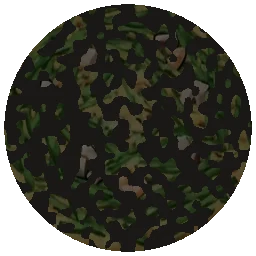
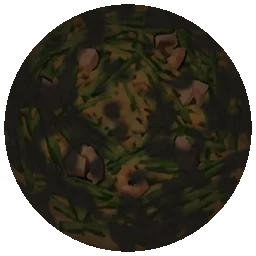
Use provided jeon images for all jeon rendering, 6-piece cut
Claude-Session: https://claude.ai/code/session_01Vdys7kjPUwJ24VZrvgtwsQ

diff --git a/jeon-game/jeon-steps.html b/jeon-game/jeon-steps.html
@@ -84,7 +84,7 @@ const DIPS = [
 ];
 /* 사진에서 오려 낸 재료 이미지와 부엌 배경 (assets 폴더) */
 const IMG = {};
-['kitchen', ...FRIDGE.flatMap(k => ['ing_' + k, 'pc_' + k])].forEach(n => { const i = new Image(); i.src = 'assets/' + n + '.webp'; IMG[n] = i; });
+['kitchen', 'top_hobak', ...FRIDGE.flatMap(k => ['ing_' + k, 'pc_' + k]), ...['kimchi', 'haemul', 'buchu', 'gamja'].flatMap(t => ['top_' + t, 1, 2, 3, 4, 5].map((n, i) => i ? `st_${t}_${n}` : n))].forEach(n => { const i = new Image(); i.src = 'assets/' + n + '.webp'; IMG[n] = i; });
 const okImg = n => IMG[n] && IMG[n].complete && IMG[n].naturalWidth > 0;
 const PW = { kimchi: 30, buchu: 26, zucchini: 24, potato: 20, squid: 22, onion: 26, carrot: 13, pepper: 26 };
 const STAGES = ['재료 고르기', '손질하기', '반죽 만들기', '굽기', '담기', '저녁 식탁'];
@@ -490,7 +490,52 @@ function tintColor(col, items) {
   w *= clamp(bright * 1.5, 0, 1);
   return `rgb(${m.map((v, i) => Math.round(lerp(v, t[i], w))).join(',')})`;
 }
+function jeonType(items) {
+  if (items.includes('kimchi')) return 'kimchi';
+  if (items.includes('squid')) return 'haemul';
+  if (items.includes('buchu')) return 'buchu';
+  if (items.includes('potato')) return 'gamja';
+  if (items.includes('zucchini')) return 'hobak';
+  return 'haemul';
+}
+function jeonStage(topV, edgeV) {
+  if (topV < 5) return edgeV < 30 ? 1 : 2;          // 뒤집기 전: 날반죽 → 테두리 익음
+  if (topV > 95 || edgeV > 95) return 5;            // 탐
+  return edgeV < 50 ? 3 : 4;                        // 뒤집은 뒤: 중간 → 노릇 완숙
+}
+function drawJeonImg(x, y, R, jeon, topV, edgeV, sy, slices) {
+  const t = jeonType(jeon.items), st = jeonStage(topV, edgeV);
+  ctx.save(); ctx.translate(x, y); ctx.scale(1, sy);
+  ctx.fillStyle = 'rgba(0,0,0,0.25)'; ctx.beginPath(); ctx.ellipse(3, 6, R, R, 0, 0, 6.283); ctx.fill();
+  if (t === 'hobak') {
+    if (!okImg('top_hobak')) { ctx.restore(); return false; }
+    const pos = [[0, 0], ...Array.from({ length: 7 }, (_, i) => [Math.cos(i / 7 * 6.283) * 0.62, Math.sin(i / 7 * 6.283) * 0.62])];
+    pos.forEach(([px, py]) => {
+      ctx.drawImage(IMG.top_hobak, px * R - R * 0.33, py * R - R * 0.33, R * 0.66, R * 0.66);
+      if (st !== 4 && st !== 3) { ctx.fillStyle = st === 5 ? 'rgba(25,20,15,0.72)' : 'rgba(240,225,200,0.45)'; ctx.beginPath(); ctx.arc(px * R, py * R, R * 0.31, 0, 6.283); ctx.fill(); }
+    });
+    ctx.restore(); return true;
+  }
+  const name = st === 4 ? 'top_' + t : `st_${t}_${st}`;
+  if (!okImg(name)) { ctx.restore(); return false; }
+  const im = IMG[name];
+  if (slices) {
+    const n = slices, gap = R * 0.035;
+    for (let i = 0; i < n; i++) {
+      const a0 = i / n * 6.283, a1 = (i + 1) / n * 6.283, am = (a0 + a1) / 2;
+      ctx.save(); ctx.translate(Math.cos(am) * gap, Math.sin(am) * gap);
+      ctx.beginPath(); ctx.moveTo(0, 0); ctx.arc(0, 0, R, a0, a1); ctx.closePath(); ctx.save(); ctx.clip();
+      ctx.drawImage(im, -R, -R, R * 2, R * 2); ctx.restore();
+      ctx.strokeStyle = '#1e140c'; ctx.lineWidth = 2; ctx.stroke(); ctx.restore();
+    }
+  } else {
+    ctx.drawImage(im, -R, -R, R * 2, R * 2);
+    ctx.strokeStyle = 'rgba(30,20,12,0.85)'; ctx.lineWidth = 2; ctx.beginPath(); ctx.arc(0, 0, R * 0.965, 0, 6.283); ctx.stroke();
+  }
+  ctx.restore(); return true;
+}
 function drawJeon(x, y, R, jeon, topV, edgeV, sy = 1, slices = 0) {
+  if (drawJeonImg(x, y, R, jeon, topV, edgeV, sy, slices)) return;
   ctx.save(); ctx.translate(x, y); ctx.scale(1, sy);
   const it = jeon.items;
   // 그림자
@@ -858,7 +903,7 @@ function drawFry() {
 /* ================= 5. 담기 ================= */
 const PL_OPTS = PLATES.map((p, i) => ({ i, x: 24, y: 80 + i * 100, w: 190, h: 88 }));
 const DIP_OPTS = DIPS.map((d, i) => ({ i, x: 746, y: 80 + i * 100, w: 190, h: 88 }));
-const CUT_OPTS = [{ i: 0, n: '통째로', x: 330, y: 494, w: 130, h: 42 }, { i: 1, n: '여덟 조각', x: 480, y: 494, w: 130, h: 42 }];
+const CUT_OPTS = [{ i: 0, n: '통째로', x: 330, y: 494, w: 130, h: 42 }, { i: 1, n: '6조각', x: 480, y: 494, w: 130, h: 42 }];
 function drawPlateShape(type, x, y, rx, ry) {
   if (type === 2) {
     ctx.fillStyle = '#c9a463'; ctx.beginPath(); ctx.ellipse(x, y, rx, ry, 0, 0, 6.28); ctx.fill();
@@ -903,7 +948,7 @@ function drawServe() {
   // 미리보기
   ctx.fillStyle = 'rgba(0,0,0,0.3)'; ctx.beginPath(); ctx.ellipse(474, 404, 196, 90, 0, 0, 6.28); ctx.fill();
   drawPlateShape(S.plate, 470, 390, 196, 92);
-  drawJeon(450, 380, 128, S.jeon, S.pan.sides[0], S.pan.sides[1], 0.5, S.cut ? 8 : 0);
+  drawJeon(450, 380, 128, S.jeon, S.pan.sides[0], S.pan.sides[1], 0.5, S.cut ? 6 : 0);
   drawDipBowl(DIPS[S.dip], 612, 430, 1.3);
   ctx.font = `22px ${FS}`; const nw = ctx.measureText(recipeName(S.picks)).width + 40;
   ctx.fillStyle = 'rgba(18,12,8,0.62)'; rr(470 - nw / 2, 296, nw, 36, 18); ctx.fill();
@@ -962,7 +1007,7 @@ function drawTable() {
     ctx.fillStyle = '#fbfaf6'; ctx.beginPath(); ctx.ellipse(x, y - 4, 22, 9, 0, 0, 6.28); ctx.fill();
   });
   drawPlateShape(S.plate, 470, 392, 150, 58);
-  drawJeon(460, 384, 96, S.jeon, S.pan.sides[0], S.pan.sides[1], 0.42, S.cut ? 8 : 0);
+  drawJeon(460, 384, 96, S.jeon, S.pan.sides[0], S.pan.sides[1], 0.42, S.cut ? 6 : 0);
   drawDipBowl(DIPS[S.dip], 640, 410, 1.1);
   // 내 손과 젓가락 (1인칭)
   drawArm(820, 506, 930, 660, '#4f6f8a');
@@ -1129,7 +1174,7 @@ function drawIntro() {
 
 /* ================= 첫 화면, 도감 ================= */
 const START = { x: 380, y: 452, w: 200, h: 54 };
-const demoJeon = makeJeon(['kimchi', 'squid', 'onion']);
+const demoJeon = makeJeon(['kimchi', 'squid', 'onion']), demoJeon2 = makeJeon(['buchu', 'squid']);
 function drawTitle() {
   drawWall(); drawWindow();
   ctx.fillStyle = 'rgba(20,16,14,0.7)'; ctx.fillRect(0, 0, W, H);
@@ -1140,7 +1185,7 @@ function drawTitle() {
   ctx.restore();
   txt('잠깐 귀국한 비 오는 날, 가족에게 부쳐 주는 저녁 반찬', 480, 216, 18, '#d9cdb8', 'center', FT);
   drawJeon(160, 340, 74, demoJeon, 70, 78);
-  drawJeon(800, 340, 74, demoJeon, 62, 72);
+  drawJeon(800, 340, 74, demoJeon2, 62, 72);
   STAGES.forEach((s, i) => {
     const y = 268 + i * 28;
     ctx.fillStyle = '#e2a43a'; circle(404, y - 6, 10); ctx.fill();
